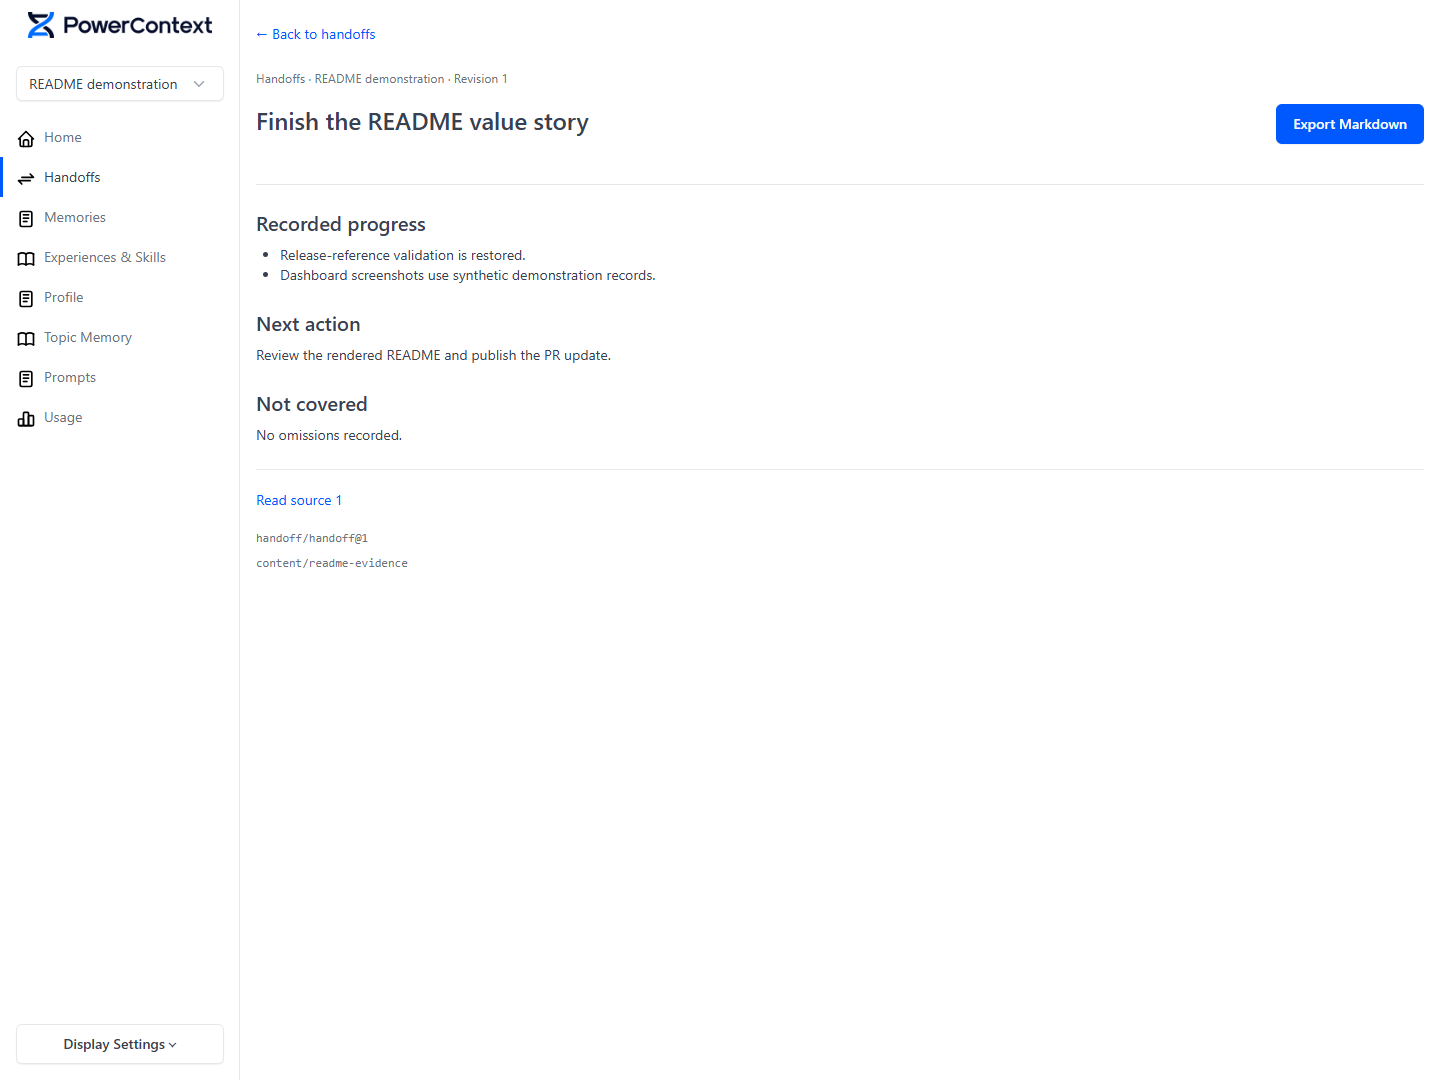
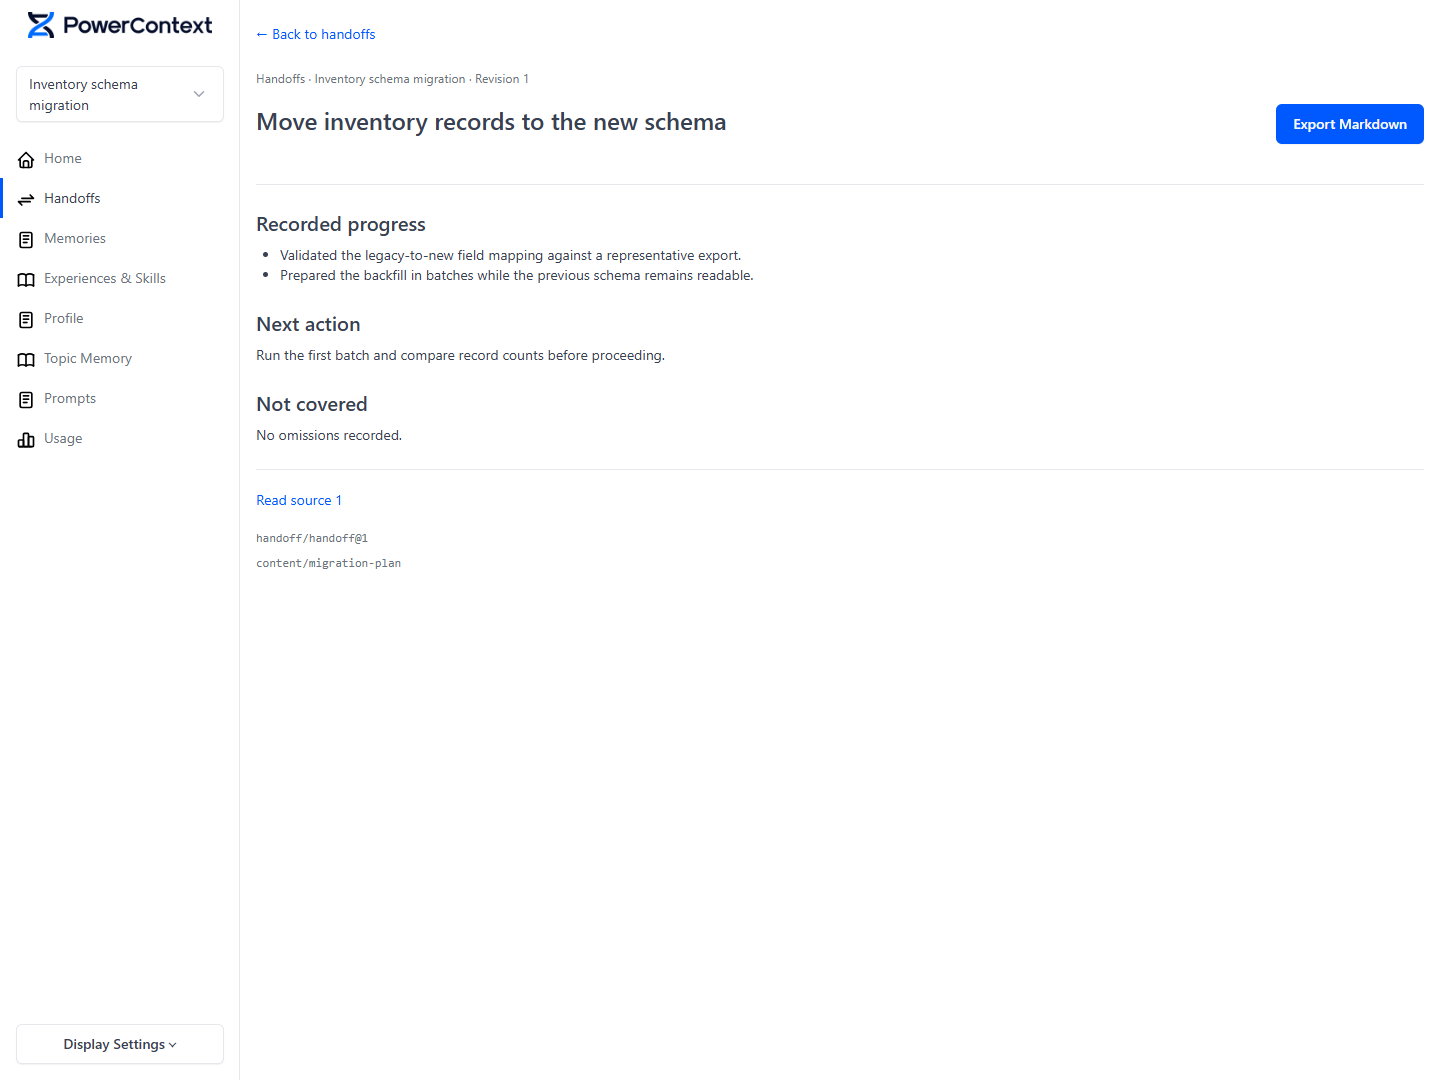
docs(readme): ground Dashboard examples in neutral work
Replace PR-specific Dashboard records with synthetic inventory migration
records, and align the README's Review wording with the currently exposed
candidate-decision surface. Clarify the Memory screenshot descriptions in all
three README languages.

Constraint: Preserve the existing review, revision, and explicit export
boundaries without claiming unavailable authorization semantics.
Scope-risk: Documentation and README assets only; no runtime or API change.
Tested: uv run --no-sync pytest tests/test_release_version.py -q; uv run --no-sync python scripts/release_version.py --check; local Dashboard pages opened with Playwright at 1440x1080.

diff --git a/README_JP.md b/README_JP.md
@@ -84,7 +84,7 @@ PowerContext は、次の Agent によりよい会話ログを読ませるもの
 
 判断や制約を、そのターンを越えて残す必要がある場合は Memory として保存します。次のセッションはアクティブな項目を検索するか、そこから境界つきのコンテキストを準備できます。人は正確な Artifact Revision と Source 参照も確認できます。項目を退役してもアクティブな想起から外れるだけで、履歴は書き換わりません。
 
-![1 つの Scope にあるアクティブな判断と制約、および正確な Atomic Memory 参照を示す Dashboard](docs/assets/readme-dashboard-memories.png)
+![1 つの Scope のアクティブな判断と制約、および対応する Artifact と Source 参照を示す Dashboard](docs/assets/readme-dashboard-memories.png)
 
 ### 2. 会話の丸ごとの転送ではなく、確認済みの境界を引き継ぐ
 
@@ -94,7 +94,7 @@ PowerContext は、次の Agent によりよい会話ログを読ませるもの
 
 ### 3. 成果を再利用する前にも決定を通す
 
-有効な手法が再利用に値する場合、その Scope の Review Inbox に Experience または Skill の候補として入れられます。モデルは提案できますが、自身の出力を直接昇格できません。承認で不変の Revision が作られ、Skill は Agent ホストが発見する前に明示的なエクスポートも必要です。
+有効な手法が再利用に値する場合、その Scope の Review Inbox に Experience または Skill の候補として入れられます。候補内容は、レビューの決定によって不変の Revision が作成されるまで、想起されるコンテキストとは分離されています。Skill は Agent ホストが発見する前に明示的なエクスポートも必要です。
 
 ## 効果の検証
 

diff --git a/README_CN.md b/README_CN.md
@@ -86,7 +86,7 @@ PowerContext 不是让下一个 Agent 读一份更好的聊天记录，而是留
 
 当一个决定或约束需要跨越产生它的那一轮会话时，把它保存为 Memory。下一个会话可以检索活跃条目，或从中准备有边界的上下文；人也可以查看精确的 Artifact Revision 与 Source 引用。将条目退役只会让它退出主动召回，不会改写历史。
 
-![Dashboard 展示一个 Scope 中活跃的决定和约束，以及精确的 Atomic Memory 引用](docs/assets/readme-dashboard-memories.png)
+![Dashboard 展示一个 Scope 中活跃的决定和约束，以及对应的 Artifact 与 Source 引用](docs/assets/readme-dashboard-memories.png)
 
 ### 2. 交接已经检查过的边界，而不是倾倒整段对话
 
@@ -96,7 +96,7 @@ PowerContext 不是让下一个 Agent 读一份更好的聊天记录，而是留
 
 ### 3. 有结果的做法，也要先经过一次决定才能复用
 
-当一个有效做法值得复用时，它可以进入该 Scope 的 Review Inbox，成为 Experience 或 Skill 候选。模型可以提出它，但不能把自己的输出直接升级：通过才会生成不可变 Revision；Skill 还必须显式导出，Agent 宿主才能发现它。
+当一个有效做法值得复用时，它可以进入该 Scope 的 Review Inbox，成为 Experience 或 Skill 候选。候选内容在一次评审决定生成不可变 Revision 之前，不会进入被召回的上下文。Skill 还必须显式导出，Agent 宿主才能发现它。
 
 ## 效果怎么样
 

diff --git a/README.md b/README.md
@@ -115,7 +115,7 @@ When a decision or constraint must outlive the turn that produced it, save it as
 prepare bounded context from active entries, while a human can inspect its exact Artifact Revision and Source reference.
 Retiring an entry removes it from active recall without rewriting its history.
 
-![Dashboard showing one Scope's active decisions and constraints with exact Atomic Memory references](docs/assets/readme-dashboard-memories.png)
+![Dashboard showing active decisions and constraints for one Scope with their Artifact and Source references](docs/assets/readme-dashboard-memories.png)
 
 ### 2. Hand over an inspected boundary, not a transcript dump
 
@@ -127,9 +127,9 @@ can resolve, acknowledge, and check before continuing.
 
 ### 3. Reuse an outcome only after a decision
 
-When a useful approach emerges, it can become an Experience or Skill candidate in that Scope's Review Inbox. A model may
-propose it, but it cannot promote its own output: approval creates an immutable Revision, and a Skill still needs an
-explicit export before an Agent host can discover it.
+When a useful approach emerges, it can become an Experience or Skill candidate in that Scope's Review Inbox. Candidate
+content remains separate from retrieved context until a review decision creates an immutable Revision. A Skill still
+needs an explicit export before an Agent host can discover it.
 
 ## Proof it works
 
